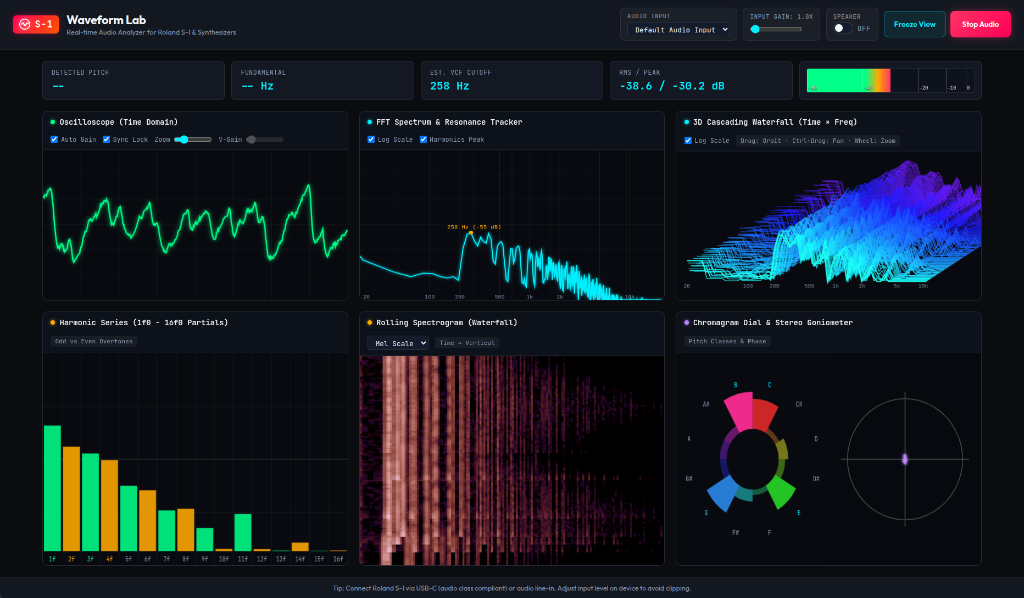
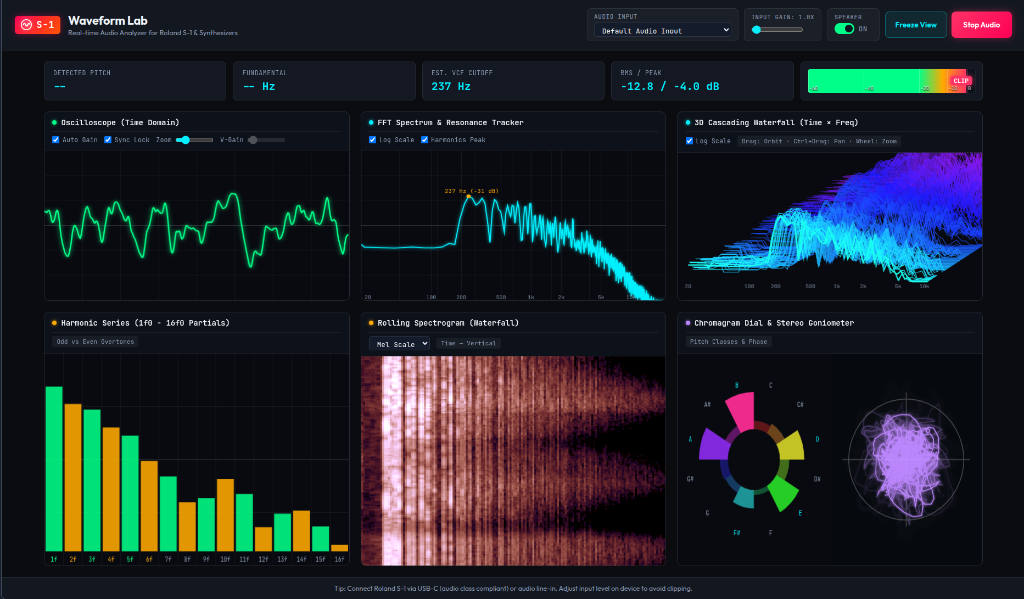
docs: update Waveform Lab screenshot with active Chromagram and expanded Goniometer

diff --git a/CONVERSATION.md b/CONVERSATION.md
@@ -1,5 +1,5 @@
 # Roland S-1 Audio Visualizer
-> **Target:** `visualization/`
+> **Target:** `visualization/`- 2026-10-24 12:47: Substituted docs/assets/waveform_lab_preview.png with latest screenshot showing active Chromagram and Stereo Goniometer. [Done]
 - 2026-10-24 12:44: Added dynamic auto-gain expansion and multi-ring reticle to Stereo Goniometer to scale quiet mono/stereo signals. [Done]
 - 2026-10-24 12:35: Added visual screenshots of Akai MIDI manual PDF and Roland S-1 Waveform Lab to README.md. [Done]
 - 2026-10-24 12:33: Updated README.md with comprehensive Waveform Lab documentation and live web links. [Done]
